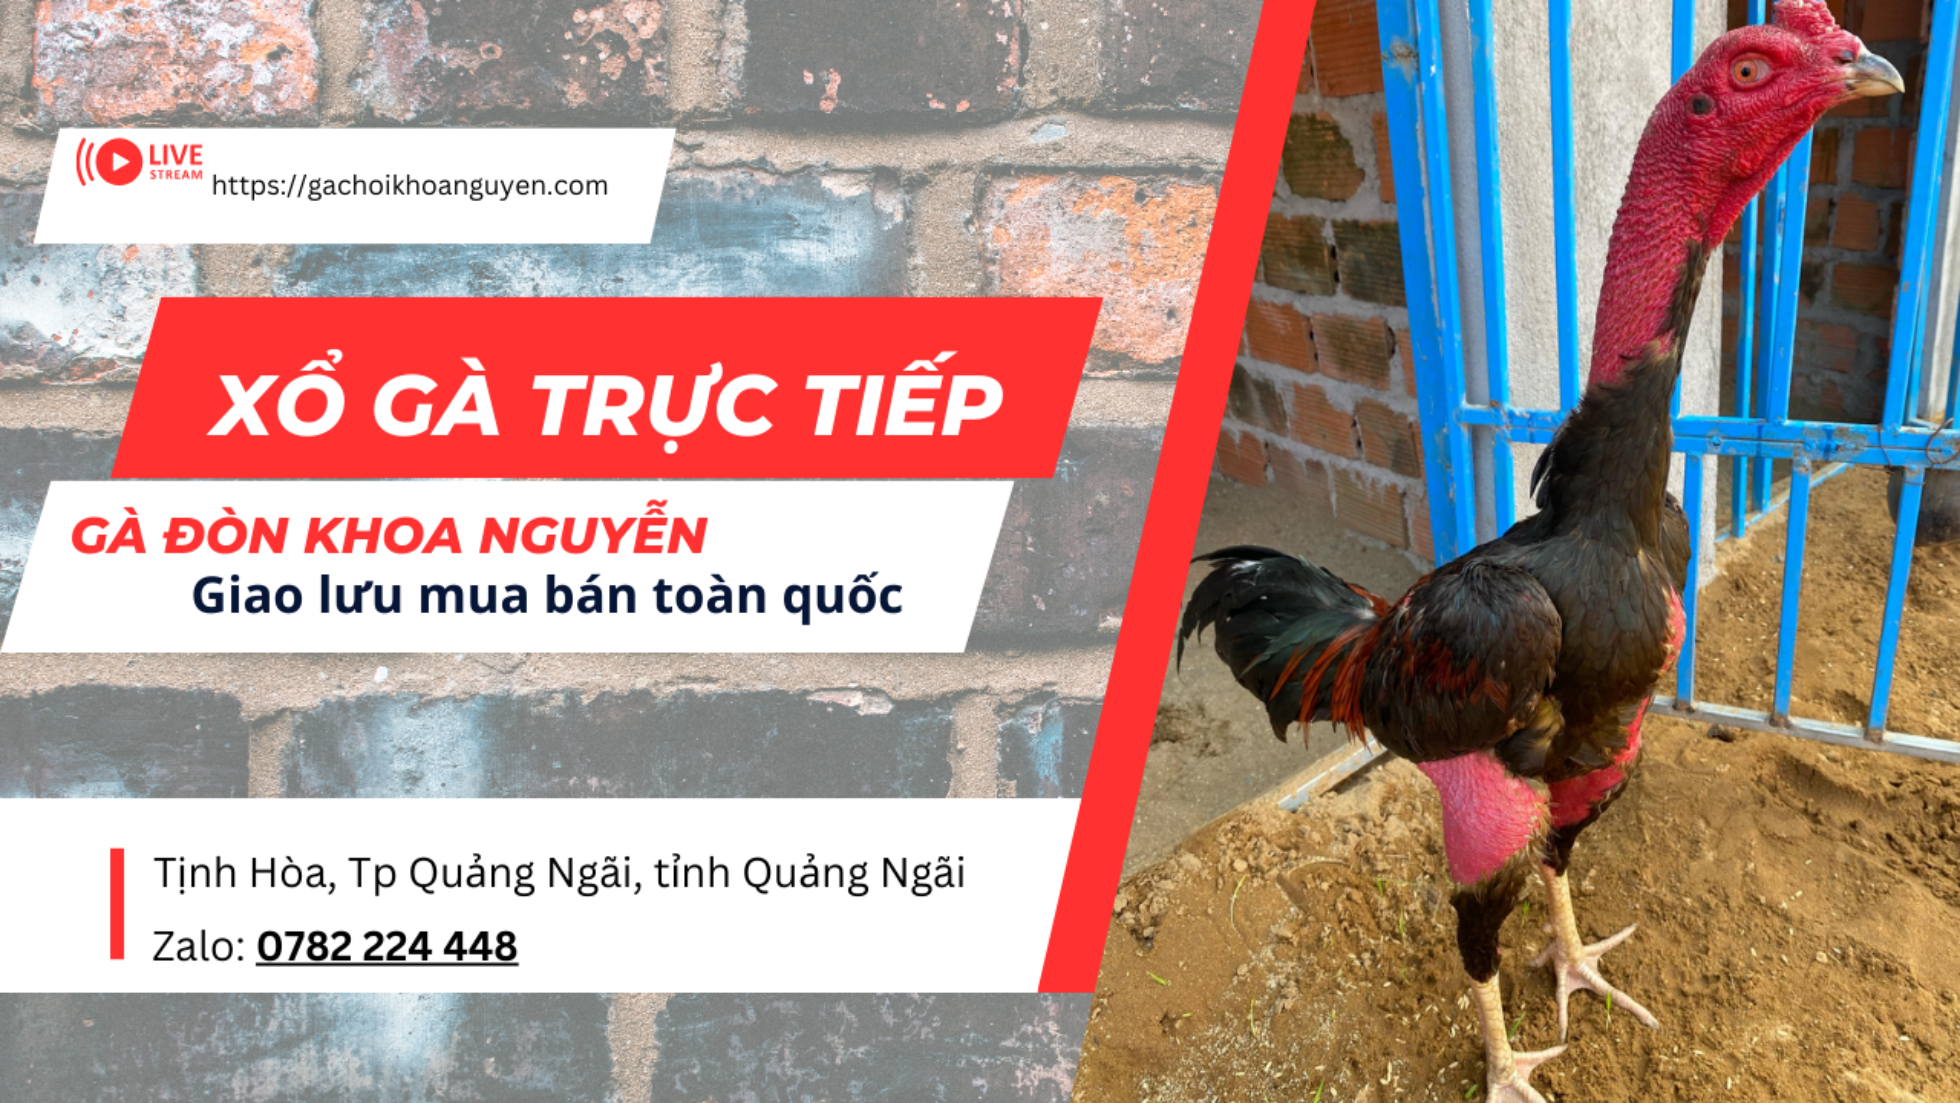
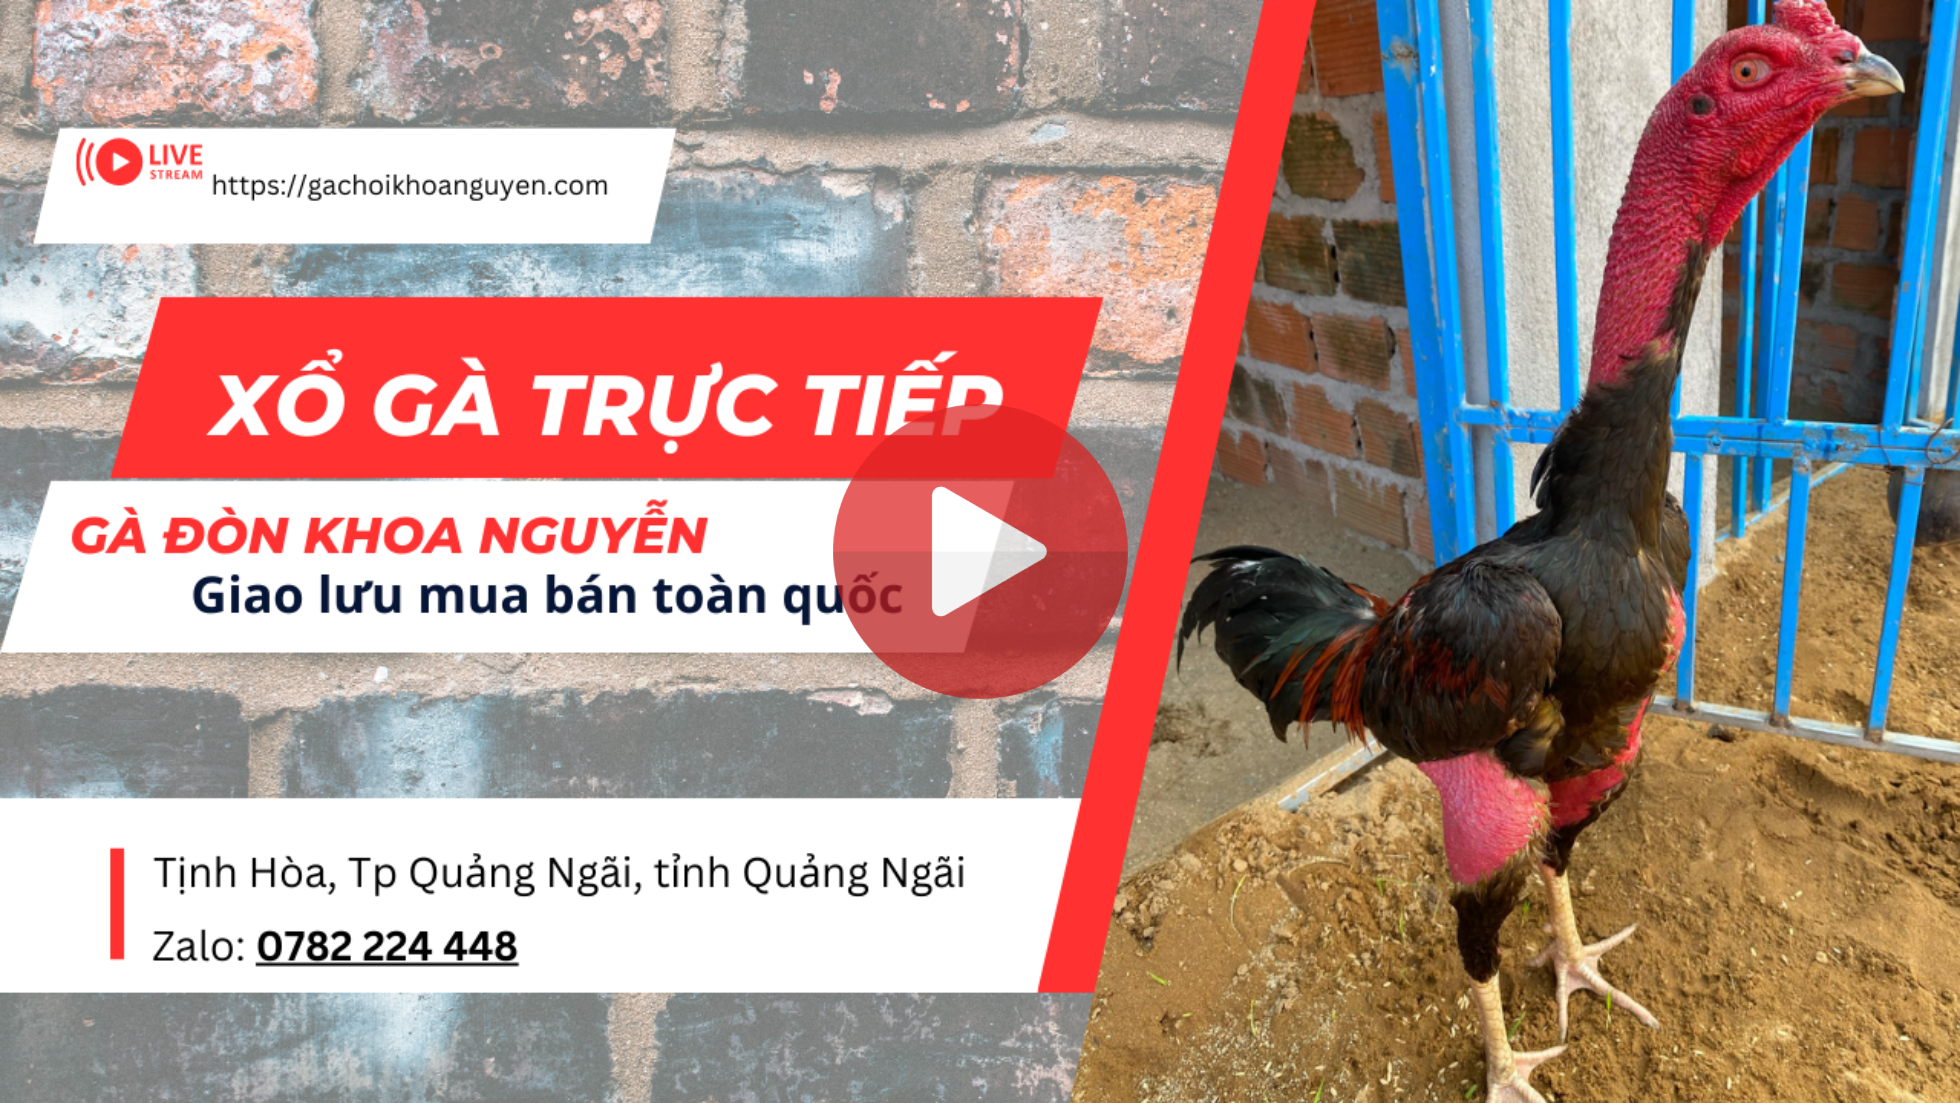
fix

Changed region(s): [[0.4046, 0.3699, 0.5913, 0.6473]]

diff --git a/index.html b/index.html
@@ -9,7 +9,7 @@
         <link rel="preconnect" href="https://fonts.googleapis.com">
     <link rel="preconnect" href="https://fonts.gstatic.com" crossorigin>
     <link href="https://fonts.googleapis.com/css2?family=Inter:ital,opsz,wght@0,14..32,100..900;1,14..32,100..900&display=swap" rel="stylesheet">
-    <link rel="stylesheet" href="./assets/js/splide-min.css">
+    <link rel="stylesheet" href="./assets/js/splide.min.css">
     <link rel="stylesheet" href="./assets/js/splide-default.min.css">
     <link rel="stylesheet" href="./assets/js/splide-core.min.css">
     <link href="https://vjs.zencdn.net/8.16.1/video-js.css" rel="stylesheet" />
@@ -98,10 +98,28 @@
         https://customer-6lidy1ydi3t5txqf.cloudflarestream.com/aa70a8af0f5484ffe42734d7f821c093/manifest/video.m3u8
         -->
         <div class="flex flex-col lg:flex-row">
-            <div class="aspect-video w-full lg:w-2/3">
-                <video id="my-video-stream" class="w-full video-js" src="https://customer-6lidy1ydi3t5txqf.cloudflarestream.com/aa70a8af0f5484ffe42734d7f821c093/manifest/video.m3u8">
+            <div class="w-full lg:w-2/3">
+                <div onclick="this.nextElementSibling.style.display='block'; this.style.display='none'">
+                    <img src="./assets/thumbnail.png" style="cursor:pointer" />
+                </div>
+                <div style="position: relative; padding-top: 56.25%; display: none;">
+                    <iframe
+                      src="https://customer-6lidy1ydi3t5txqf.cloudflarestream.com/aa70a8af0f5484ffe42734d7f821c093/iframe"
+                      style="border: none; position: absolute; top: 0; left: 0; height: 100%; width: 100%;"
+                      allow="accelerometer; gyroscope; autoplay; encrypted-media; picture-in-picture;"
+                      allowfullscreen="true"
+                    ></iframe>
+                  </div>
+
+                <!-- <video
+                    id="my-video-stream"
+                    class="w-full video-js"
+                    type="application/x-mpegURL"
+                    src="https://customer-6lidy1ydi3t5txqf.cloudflarestream.com/aa70a8af0f5484ffe42734d7f821c093/manifest/video.m3u8"
+                >
                     Your browser does not support the video tag.
-                </video>
+                </video> -->
+                
             </div>
 
             <div class="border border-gray-900 w-full h-[400px] lg:w-1/2 bg-gray-800">
@@ -291,8 +309,6 @@
     <script src="https://cdn.jsdelivr.net/npm/@splidejs/splide-extension-auto-scroll@0.5.3/dist/js/splide-extension-auto-scroll.min.js"></script>
 
     <script src="https://vjs.zencdn.net/8.16.1/video.min.js"></script>
-    <script src="https://unpkg.com/browse/@videojs/http-streaming@3.10.0/dist/videojs-http-streaming.min.js"></script>
-
 
     <script>
     document.addEventListener( 'DOMContentLoaded', function() {
@@ -310,14 +326,14 @@
 
         splide.mount(window.splide.Extensions);
 
-        const player = videojs('my-video-stream', {
-            controls: true,
-            fluid: true,
-            fill: true,
-            preload: 'none',
-            aspectRatio: '16:9',
-            poster: './assets/thumbnail.png',
-        });
+        // const player = videojs('my-video-stream', {
+        //     controls: true,
+        //     fluid: true,
+        //     fill: true,
+        //     preload: 'none',
+        //     aspectRatio: '16:9',
+        //     poster: './assets/thumbnail.png',
+        // });
 
         // const buttonPlay = document.querySelector('.vjs-big-play-button');
         // buttonPlay.addEventListener('click', function() {
